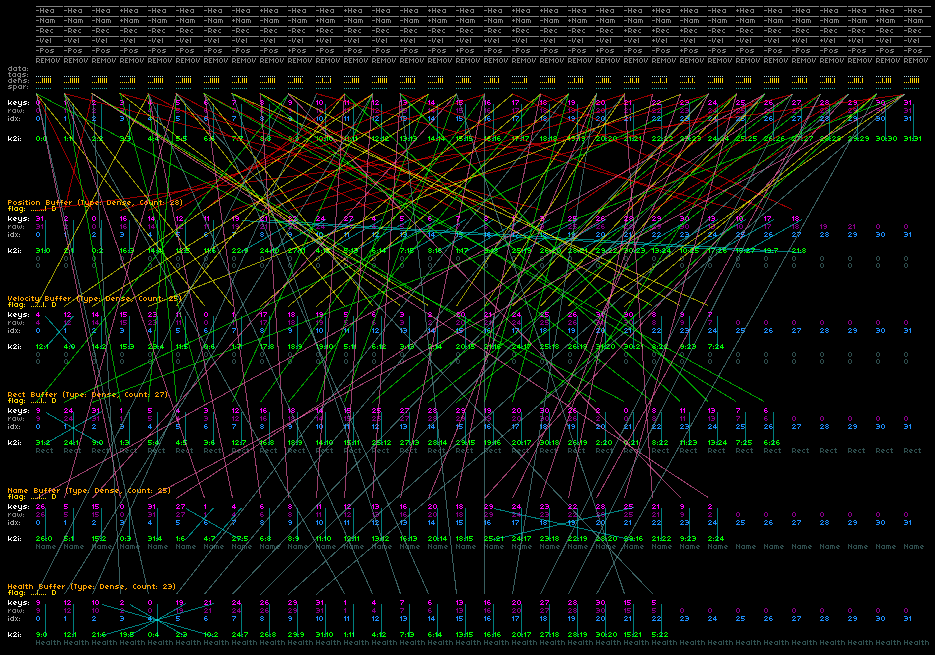
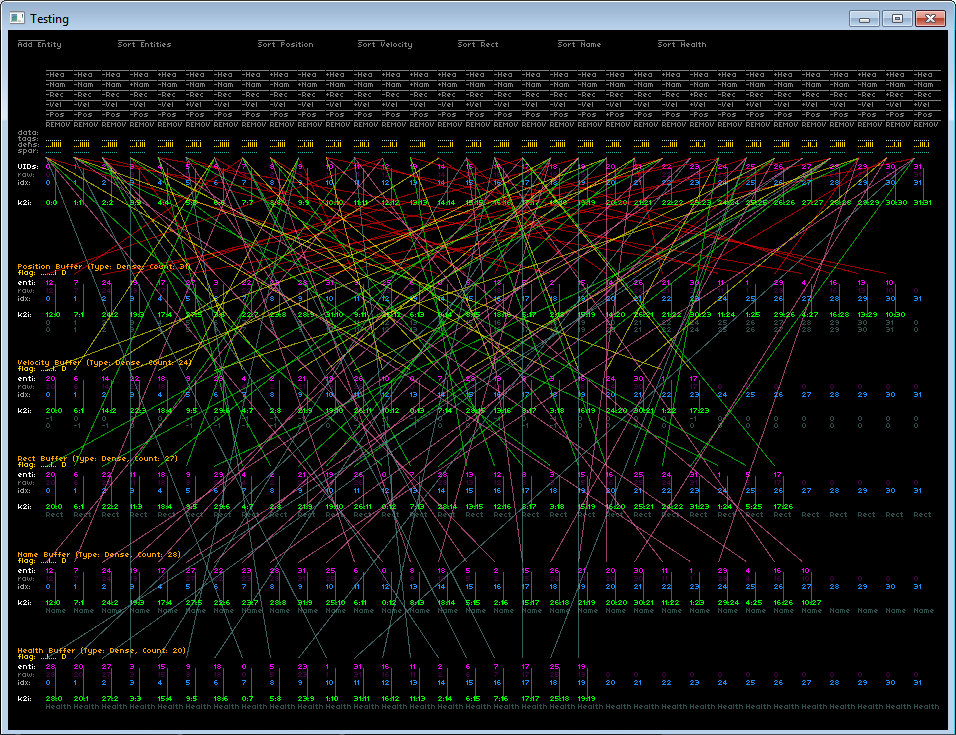
sorting, todo:test more

diff --git a/Testing/Program.cs b/Testing/Program.cs
@@ -2,6 +2,7 @@
 using System.Collections.Generic;
 using System.Linq;
 using System.Reflection;
+using System.Security.Cryptography.X509Certificates;
 using Microsoft.Xna.Framework;
 using Microsoft.Xna.Framework.Input;
 using Microsoft.Xna.Framework.Graphics;
@@ -68,24 +69,23 @@ public class MinEcsTest : Game
         registry.RegisterComponent<Health>(BufferType.Dense,1);
         
         var r = new Random(42);
-        for (int i = 0; i < 8; i++)
+        for (int i = 0; i < 32; i++)
         {
             var e = registry.CreateEntity();
-            if(r.Next(10) < 6) registry.AddComponent(e, new Position{pos = new Vector2(i,i)});
-            //if (r.Next(10) < 7) registry.AddComponent(e, new Velocity{vel = new Vector2(r.Next(-1, 1), r.Next(-1, 1)) });
-//            if(r.Next(10) < 6) registry.AddComponent(e, new Health());
-//            if(r.Next(10) < 5) registry.AddComponent(e, new Name());
-//            if(r.Next(10) < 4) registry.AddComponent(e, new Rect());
-
             //if(i%2==0)
             //registry.DeleteEntity(e);
-
-            
         }
-
-        for (int i = 8 - 1; i >= 0; i--)
+        
+        int[] shuffA = Enumerable.Range(0,32).OrderBy(a => Guid.NewGuid()).ToArray();
+        int[] shuffB = Enumerable.Range(0,32).OrderBy(a => Guid.NewGuid()).ToArray();
+        int[] shuffC = Enumerable.Range(0,32).OrderBy(a => Guid.NewGuid()).ToArray();
+        for (int i = 0; i < 32; i++)
         {
-//            registry.AddComponent((ulong)i, new Position());
+            if (r.Next(10) < 9) registry.AddComponent((ulong)shuffA[i], new Position { pos = new Vector2(i, i) });
+            if (r.Next(10) < 8) registry.AddComponent((ulong)shuffB[i], new Velocity { vel = new Vector2(r.Next(-1, 1), r.Next(-1, 1)) });
+            if(r.Next(10) < 8) registry.AddComponent((ulong)shuffB[i], new Rect());
+            if(r.Next(10) < 7) registry.AddComponent((ulong)shuffA[i], new Name());
+            if(r.Next(10) < 7) registry.AddComponent((ulong)shuffC[i], new Health());
         }
 
 
@@ -350,6 +350,18 @@ public class MinEcsTest : Game
         if (imbutton(new Vector2(110, 10), "Sort Entities"))
         {
             registry.SortEntities();
+        }
+
+        var c = 0;
+        foreach (ComponentBufferBase buffer in registry.GetDebugComponentBufferBases())
+        {
+            string compNameStr = buffer.GetType().GenericTypeArguments[0].Name;
+            var comptype = Type.GetType(compNameStr, false, true);
+
+            if (imbutton(new Vector2(250 + c++ * 100, 10), $"Sort {compNameStr}"))
+            {
+                registry.GetType().GetMethod("SortComponents").MakeGenericMethod(comptype).Invoke(registry, new object[0]);
+            }
         }
 
         DrawBuffer(new Vector2(10,100));

diff --git a/minECS/Components/ComponentBufferDense.cs b/minECS/Components/ComponentBufferDense.cs
@@ -29,6 +29,11 @@ public class ComponentBufferDense<T> : TypedComponentBufferBase<T>
         dataToSetFlags.FlagsDense |= Matcher.Flag;
     }
 
+    public override void SortComponents()
+    {
+        buffer_.SortDataByKey();
+    }
+
     public override void RemoveComponent(EntIdx entIdx, ref EntityData dataToSetFlags)
     {
         buffer_.RemoveKey(entIdx);
@@ -43,15 +48,8 @@ public class ComponentBufferDense<T> : TypedComponentBufferBase<T>
     public override void UpdateEntitiesIndices(EntIdx[] moveMap, EntityData[] sortedData)
     {
         //movemap contains the EntIdx deltas
-
         EntIdx[] newCompsKeys = new EntIdx[ComponentCount];
         int[] newCompsInds = new int[ComponentCount];
-
-        var oldCompKeys = buffer_.keys_;
-
-        T[] newCompsData = new T[buffer_.data_.Length];
-
-        List<int[]> debuarrs = new List<int[]>();
 
         int c = 0;
         for (int i = 0; i < moveMap.Length; i++)
@@ -61,50 +59,17 @@ public class ComponentBufferDense<T> : TypedComponentBufferBase<T>
 
             if (Matcher.Matches(sortedData[entIdxInNewArr].FlagsDense))
             {
-                var oldCompIdx = oldCompKeys[c];
-
                 var componentIndex = buffer_.GetIndexFromKey(entIdxInOldArr);
                 var newKeyForCompIndex = entIdxInNewArr;
 
-                debuarrs.Add(new[] { i, moveMap[i] });
-
                 newCompsKeys[c] = newKeyForCompIndex;
                 newCompsInds[c] = componentIndex;
-                newCompsData[c] = buffer_.data_[oldCompIdx];
 
                 c++;
             }
         }
 
-        //buffer_.data_ = newCompsData;
-
-        SetK2i(newCompsKeys, newCompsInds);
-    }
-
-    public void SetK2i(EntIdx[] keys, int[] ints)
-    {
-        buffer_.keysToIndices_.Clear();
-
-//        T[] sortedData = new T[buffer_.data_.Length];
-
-        //int[] 
-
-        for (var i = 0; i < keys.Length; i++)
-        {
-
-        }
-
-        for (var i = 0; i < keys.Length; i++)
-        {
-            buffer_.keysToIndices_.Add(keys[i], ints[i]);
-
-            //var compkey = buffer_.keys_[0];
-            //sortedData[i] = buffer_.data_[compkey];
-
-            buffer_.keys_[ints[i]] = keys[i];
-        }
-
-        //buffer_.data_ = sortedData;
+        buffer_.SetK2i(newCompsKeys, newCompsInds);
     }
 
     #region Debug

diff --git a/minECS/Misc/MappedBufferDense.cs b/minECS/Misc/MappedBufferDense.cs
@@ -1,10 +1,11 @@
-using System.Collections.Generic;
+using System;
+using System.Collections.Generic;
 using System.Linq;
 
 public class MappedBufferDense<TKey, TData> : MappedBufferBase<TKey, TData>
     where TKey : struct where TData : struct
 {
-    internal readonly Dictionary<TKey, int> keysToIndices_;
+    protected Dictionary<TKey, int> keysToIndices_;
 
     protected IReadOnlyDictionary<TKey, int> KeysToIndicesDebug => keysToIndices_;
 
@@ -17,6 +18,16 @@ public class MappedBufferDense<TKey, TData> : MappedBufferBase<TKey, TData>
     public (Dictionary<TKey, int> k2i, TKey[] i2k, TData[] data) __GetBuffers()
     {
         return (keysToIndices_, keys_, data_);
+    }
+
+    public void SetK2i(TKey[] keys, int[] ints)
+    {
+        keysToIndices_.Clear();
+        for (var i = 0; i < keys.Length; i++)
+        {
+            keysToIndices_.Add(keys[i], ints[i]);
+            keys_[ints[i]] = keys[i];
+        }
     }
 
     internal int GetIndexFromKey(TKey key)
@@ -56,5 +67,28 @@ public class MappedBufferDense<TKey, TData> : MappedBufferBase<TKey, TData>
         return
         $"  Entries: {Count}, Map Entries: {keysToIndices_.Count}\n" +
         $"  Map: {string.Join(", ", keysToIndices_.Select(x => x.Key + ":" + x.Value))}";
+    }
+
+    public void SortDataByKey()
+    {
+        //create move map
+        int[] mm = new int[Count];
+        for (var i = 0; i < Count; i++)
+            mm[i] = i;
+
+        //sort the keys and get the moves
+        Array.Sort(keys_, mm, 0, Count);
+
+        var newData = new TData[Count];
+
+        for (var i = 0; i < mm.Length; i++)
+        {
+            var oldIndex = mm[i];
+            newData[i] = data_[oldIndex];
+            keysToIndices_[keys_[i]] = i;
+        }
+
+        //todo cache sorting array (GC-less)
+        data_ = newData;
     }
 }

diff --git a/minECS/Registry/Registry.cs b/minECS/Registry/Registry.cs
@@ -63,7 +63,7 @@ public partial class EntityRegistry : MappedBufferDense<EntUID, EntityData>
     public void SortEntities()
     {
         //create move map
-        EntIdx[] mm = new EntIdx[Count];
+        int[] mm = new int[Count];
         for (var i = 0; i < Count; i++)
             mm[i] = i;
 
@@ -77,9 +77,8 @@ public partial class EntityRegistry : MappedBufferDense<EntUID, EntityData>
             newKeys[i] = keys_[mm[i]];
             keysToIndices_[keys_[mm[i]]] = i;
         }
-
-
-        //todo cache sorting array
+        
+        //todo cache sorting array (GC-less)
         
         componentsManager_.UpdateEntityIndices(mm, data_);
 
@@ -115,6 +114,11 @@ public partial class EntityRegistry : MappedBufferDense<EntUID, EntityData>
 //        componentsManager_.RemoveAllComponents(entIdx, entData.Flags);
 //        entData.Flags = 0;
 //    }
+
+    public void SortComponents<T>() where T : struct
+    {
+        componentsManager_.GetBufferSlow<T>().SortComponents();
+    }
 
     #region Debug
 

diff --git a/minECS/Components/ComponentBufferSparse.cs b/minECS/Components/ComponentBufferSparse.cs
@@ -30,6 +30,11 @@ class ComponentBufferSparse<T> : TypedComponentBufferBase<T>
         dataToSetFlags.FlagsDense |= Matcher.Flag;
     }
 
+    public override void SortComponents()
+    {
+        throw new NotImplementedException();
+    }
+
     public override void RemoveComponent(EntIdx entIdx, ref EntityData dataToSetFlags)
     {
         buffer_.RemoveKey(entIdx);

diff --git a/minECS/Components/ComponentBuffer.cs b/minECS/Components/ComponentBuffer.cs
@@ -47,4 +47,5 @@ public abstract class ComponentBufferBase : IDebugString
 public abstract class TypedComponentBufferBase<T> : ComponentBufferBase
 {
     public abstract void AddComponent(int entIdx, T component, ref EntityData dataToSetFlags);
+    public abstract void SortComponents();
 }
